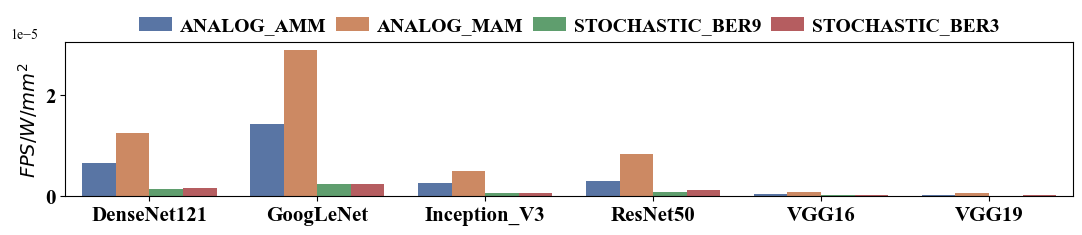
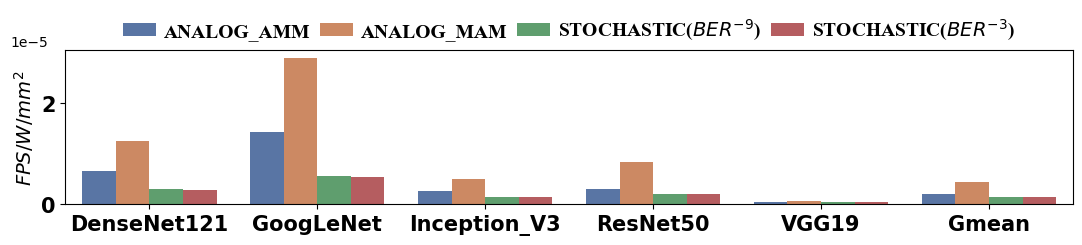
Added the descriptive text code to find the top two accelerators

diff --git a/visualization.py b/visualization.py
@@ -6,6 +6,7 @@ from pandas.core.algorithms import mode
 import json
 import seaborn as sns
 from matplotlib import ticker
+from scipy import stats
 
 
 def plotAndSaveBarplot(df, x_column, y_column, y_axis_label ,hue_column, ncol, file_name, fig_save_dir):
@@ -23,11 +24,15 @@ def plotAndSaveBarplot(df, x_column, y_column, y_axis_label ,hue_column, ncol, f
     plt.rcParams.update({'font.family':'Times New Roman'})
 
     ax1 = sns.barplot(ax= ax1, x=x_column,y=y_column, hue=hue_column, data = df1, palette = 'deep')
+    # for container in ax1.containers:
+    #     ax1.bar_label(container)
     ax1.set(ylabel=y_axis_label) 
     y1lim = df1[y_column].max()
     # ax.set_ylim(0,100)
-    if y_column=="fps_per_w_per_area" or y_column=="fps_per_w" or y_column == 'fps':
+    if y_column=="fps_per_w_per_area" or y_column=="fps_per_w":
         ax1.ticklabel_format(axis='y', style='sci',  scilimits=(3,6))
+    else:
+        ax1.set_yscale("log")
     ax1.xaxis.label.set_visible(False)
     ax1.xaxis.label.set_fontsize(14)
     ax1.yaxis.label.set_fontsize(14)
@@ -46,24 +51,78 @@ def plotAndSaveBarplot(df, x_column, y_column, y_axis_label ,hue_column, ncol, f
     # plt.xticks(rotation = 45)
     plt.rcParams.update({'font.family':'Times New Roman'})
     plt.savefig(fig_save_dir+file_name,bbox_inches='tight' )
-    plt.show()
-        
-    
+    # plt.show()
+def calGmeanDF(df,cal_gmean_col):
+    accelerator_types = list(df['name'].unique())
+    for accelerator in accelerator_types:
+        print(accelerator)
+        gmean_row = {}
+        df_acc =  df[df['name']==accelerator]
+        gmean_row['name'] = accelerator
+        gmean_row['Model_Name'] = 'Gmean'
+        gmean_row['config'] = 'NA'
+        for col in cal_gmean_col:
+            gmean_row[col] = stats.gmean(df_acc[col])
+        df = df.append(gmean_row, ignore_index=True)      
+    return df
 
-
-
-df1= pd.read_csv('Result/ACC_FOUR_BIT/Analog_Metrics.csv')
-df2 = pd.read_csv('Result/ACC_FOUR_BIT/Stochastic_BER9_Metrics.csv')
-df3 = pd.read_csv('Result/ACC_FOUR_BIT/Stochastic_BER3_Metrics.csv')
+acc_precision = 'ACC_SIXTEEN_BIT'
+# cal_gmean_col = ['hardware_utilization','total_latency','fps','total_dynamic_energy','total_static_power','fps_per_w','area','fps_per_w_per_area']
+# df1= pd.read_csv('Result/'+acc_precision+'/Analog_Metrics.csv')
+# df1 = calGmeanDF(df1,cal_gmean_col)
+# df2 = pd.read_csv('Result/'+acc_precision+'/STOCHASTIC_BER_9.csv')
+# df2 = calGmeanDF(df2,cal_gmean_col)
+# df3 = pd.read_csv('Result/'+acc_precision+'/STOCHASTIC_BER_3.csv')
+# df3 = calGmeanDF(df3,cal_gmean_col)
 # * Dataframe to be ploted 
-df =  pd.concat([df1, df2, df3], ignore_index=True)
+# df =  pd.concat([df1, df2, df3], ignore_index=True)
+# df.to_csv('Result/'+acc_precision+'/Combined.csv')
+
+df = pd.read_csv('Result/'+acc_precision+'/Combined.csv')
+df = df.drop(df[df['Model_Name'] == 'VGG16'].index) 
 # * Metrics to be plotted and saved as seperate figures in for dic with {'metric_column_name': 'Y axis label'}
-parameters_label= {'fps':"FPS", 'fps_per_w_per_area':'$FPS/W/mm^2$' ,"fps_per_w":"FPS/W"}
-# parameters_label= {'fps':'$FPS$'}
+# parameters_label= {'fps':"FPS (Log Scale)", 'fps_per_w_per_area':'$FPS/W/mm^2$' ,"fps_per_w":"FPS/W"}
+parameters_label= {'fps_per_w_per_area':'$FPS/W/mm^2$'}
 # parameters_label= {}
 #* filters: column values to be removed from the plotting dataframe
 for metric in parameters_label:
         fileName = parameters_label[metric].replace(".csv","").replace(" ","_").replace("/","_").replace("$",'_')+'.png'
-        plotAndSaveBarplot(df,'Model_Name',metric,parameters_label[metric],'name', 5,fileName ,'Plots/ACC_FOUR_BIT/')
+        plotAndSaveBarplot(df,'Model_Name',metric,parameters_label[metric],'name', 5,fileName ,'Plots/'+acc_precision+'/')
+
+#* The below code gives the descriptive information on which accelerator is better than other accelerators and by how much 
+
+df_descriptive = df[df['Model_Name']=='Gmean'].reset_index(drop=True)
+print(df_descriptive)
+parameter_column  = 'fps_per_w_per_area'
+findmax_query = parameter_column+"=="+parameter_column+".max()"
+max_row = df_descriptive.query(findmax_query)
+max_tpc_name = max_row['name'].values[0] 
+max_fps = max_row[parameter_column]
+
+for idx in df_descriptive.index:
+    # print("MAX achieved", max_fps)
+    # print("Compared with", )
+    increment = max_fps/df_descriptive[parameter_column][idx]
+    increment = increment.values[0]
+    print("The accelerator "+ str(max_tpc_name)+ " achieves "+str(increment)+"x times better "+parameter_column+" than "+str(df_descriptive['name'][idx]))
+
+df_descriptive= df_descriptive.drop(df_descriptive[df_descriptive['name'] == max_tpc_name].index)
+
+print("Details of second best accelerator")
+# print(df_descriptive)
+max_row = df_descriptive.query(findmax_query)
+max_tpc_name = max_row['name'].values[0] 
+max_fps = max_row[parameter_column]
+
+for idx in df_descriptive.index:
+    # print("MAX achieved", max_fps)
+    # print("Compared with", )
+    increment = max_fps/df_descriptive[parameter_column][idx]
+    increment = increment.values[0]
+    print("The accelerator "+ str(max_tpc_name)+ " achieves "+str(increment)+"x times better "+parameter_column+" than "+str(df_descriptive['name'][idx]))
+
+
+    
+# print(df_descriptive.iloc[df['fps'].argmax()])
 
 

diff --git a/main.py b/main.py
@@ -223,14 +223,14 @@ def run(modelName,cnnModelDirectory,accelerator_config, required_precision = 8):
     
   #* Creating accelerator with the configurations
   
-accelerator_required_precision = 16
-STOCHASTIC_ACCELERATOR = [{ELEMENT_SIZE:257,ELEMENT_COUNT:128,UNITS_COUNT:64, RECONFIG:[], VDP_TYPE:'AMM', NAME:'STOCHASTIC', ACC_TYPE:'STOCHASTIC', PRECISION:8, BITRATE: 30}]
+accelerator_required_precision = 4
+STOCHASTIC_ACCELERATOR = [{ELEMENT_SIZE:149,ELEMENT_COUNT:128,UNITS_COUNT:32, RECONFIG:[], VDP_TYPE:'AMM', NAME:'STOCHASTIC($BER^{-3}$)', ACC_TYPE:'STOCHASTIC', PRECISION:4, BITRATE: 30}]
 ANALOG_AMM_ACCELERATOR = [{ELEMENT_SIZE:32,ELEMENT_COUNT:128,UNITS_COUNT:128, RECONFIG:[], VDP_TYPE:'AMM', NAME:'ANALOG_AMM', ACC_TYPE:'ANALOG', PRECISION:4}]
 ANALOG_MAM_ACCELERATOR = [{ELEMENT_SIZE:40,ELEMENT_COUNT:128,UNITS_COUNT:128, RECONFIG:[], VDP_TYPE:'MAM', NAME:'ANALOG_MAM', ACC_TYPE:'ANALOG', PRECISION:4}]
 
 
 
-tpc_list = [ANALOG_AMM_ACCELERATOR,ANALOG_MAM_ACCELERATOR]
+tpc_list = [STOCHASTIC_ACCELERATOR]
 print("Required Precision ",accelerator_required_precision)
 cnnModelDirectory = "./CNNModels/"
 modelList =  [f for f in listdir(cnnModelDirectory) if isfile(join(cnnModelDirectory, f))]
@@ -241,7 +241,7 @@ for tpc in tpc_list:
         print("Model being Processed ", modelName)          
         system_level_results.append(run(modelName, cnnModelDirectory, tpc, accelerator_required_precision))
 sys_level_results_df = pd.DataFrame(system_level_results)
-sys_level_results_df.to_csv('Result/ACC_SIXTEEN_BIT/'+'Analog_Metrics.csv')  
+sys_level_results_df.to_csv('Result/ACC_FOUR_BIT/'+'STOCHASTIC_BER_3.csv')  
 
 
 
